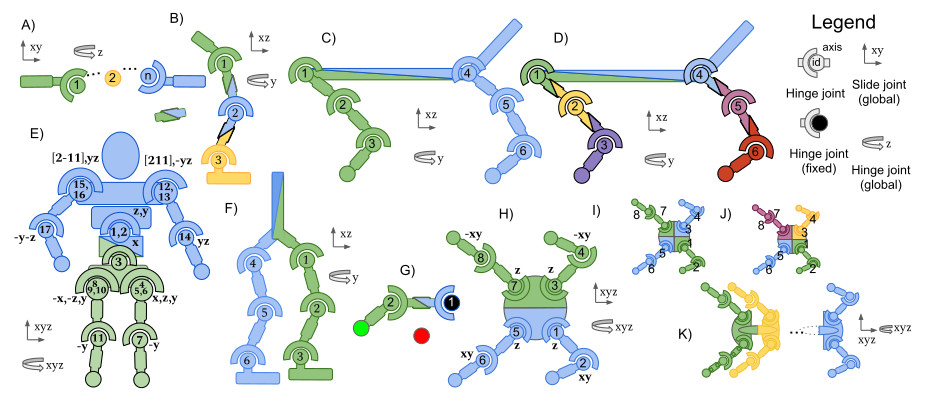
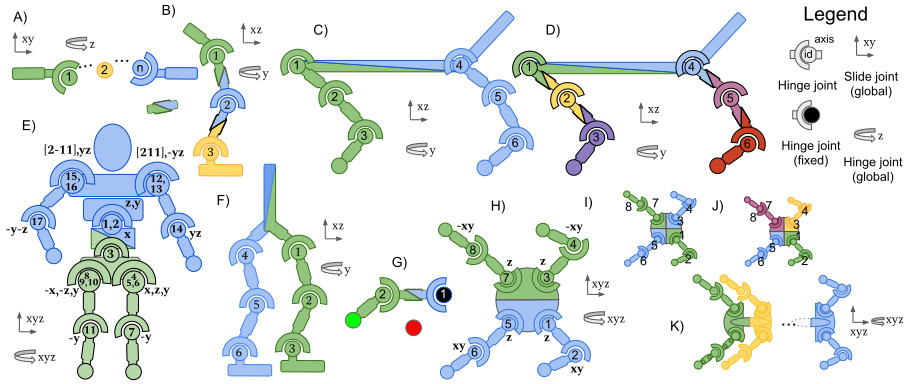
add licence info

diff --git a/gymnasium_robotics/envs/multiagent_mujoco/obsk.py b/gymnasium_robotics/envs/multiagent_mujoco/obsk.py
@@ -1,3 +1,27 @@
+"""file Containing utily functions for MaMuJoCo.
+
+This file is originally from the `schroederdewitt/multiagent_mujoco` repository hosted on GitHub
+(https://github.com/schroederdewitt/multiagent_mujoco/blob/master/multiagent_mujoco/obsk.py)
+Original Author: Schroeder de Witt
+
+Then Modified by @Kallinteris-Andreas for this project
+changes:
+ - General code cleanup, factorization, type hinting, adding documentation and comments
+ - `build_obs`: fixed global observations, fixed body observations (cvel, cinert, cfrc_ext), how uses mujoco.data, instead of gym.env
+ - `HalfCheetah`: fix action ordering
+ - `Ant`: Fix global observation, fix "2x4d" factorization how having diogonal observations
+ - `Humanoid`s: Added Body support, fixed abdomen observations, added/fixed missing global torso observations, fixed action ordering
+ - `Reacher`: Fixxed body mapping
+ - `Pusher`: Added support for `Pusher`
+ - `Swimmer`: Added Front tip to global observations
+ - `Walker2D`: Added missing Global Observations
+ - `CoupledHalfCheetah`: improved node naming, fixxed tendon facobian observations, fixed action mapping of the second cheetah, added missing global observations
+ - `ManySegmentAnt`: Fixed Global Observations
+ - added new functions: `_observation_structure`
+
+This project is covered by the Apache 2.0 License.
+"""
+
 from __future__ import annotations
 
 import itertools
@@ -894,24 +918,24 @@ def get_parts_and_edges(  # noqa: C901
         if partitioning is None:
             parts = [
                 (
-                    bfoot0,
-                    bshin0,
                     bthigh0,
-                    ffoot0,
-                    fshin0,
+                    bshin0,
+                    bfoot0,
                     fthigh0,
-                    bfoot1,
-                    bshin1,
+                    fshin0,
+                    ffoot0,
                     bthigh1,
-                    ffoot1,
-                    fshin1,
+                    bshin1,
+                    bfoot1,
                     fthigh1,
+                    fshin1,
+                    ffoot1,
                 ),
             ]
         elif partitioning == "1p1":  # isolate the cheetahs
             parts = [
-                (bfoot0, bshin0, bthigh0, ffoot0, fshin0, fthigh0),
-                (bfoot1, bshin1, bthigh1, ffoot1, fshin1, fthigh1),
+                (bthigh0, bshin0, bfoot0, fthigh0, fshin0, ffoot0),
+                (bthigh1, bshin1, bfoot1, fthigh1, fshin1, ffoot1),
             ]
         else:
             raise Exception(f"UNKNOWN partitioning config: {partitioning}")

diff --git a/gymnasium_robotics/envs/multiagent_mujoco/mujoco_multi.py b/gymnasium_robotics/envs/multiagent_mujoco/mujoco_multi.py
@@ -1,3 +1,20 @@
+"""Main file for MaMuJoCo includes the MultiAgentMujocoEnv class.
+
+This file is originally from the `schroederdewitt/multiagent_mujoco` repository hosted on GitHub
+(https://github.com/schroederdewitt/multiagent_mujoco/blob/master/multiagent_mujoco/mujoco_multi.py)
+Original Author: Schroeder de Witt
+
+Then Modified by @Kallinteris-Andreas for this project
+changes:
+ - General code cleanup, factorization, type hinting, adding documentation and comments
+ - Now uses PettingZoo APIs instead of a propriatery API
+ - Now supports custom factorizations
+ - Added new functions MultiAgentMujocoEnv.map_global_action_to_local_actions, MultiAgentMujocoEnv.map_local_actions_to_global_action, MultiAgentMujocoEnv.map_local_observation_to_global_state, MultiAgentMujocoEnv.map_local_observation_to_global_state
+
+This project is covered by the Apache 2.0 License.
+"""
+
+
 from __future__ import annotations
 
 import gymnasium
@@ -6,7 +23,7 @@ import pettingzoo
 from gymnasium.wrappers.time_limit import TimeLimit
 
 from gymnasium_robotics.envs.multiagent_mujoco.coupled_half_cheetah import (
-    CoupledHalfCheetah,
+    CoupledHalfCheetahEnv,
 )
 from gymnasium_robotics.envs.multiagent_mujoco.many_segment_ant import ManySegmentAntEnv
 from gymnasium_robotics.envs.multiagent_mujoco.many_segment_swimmer import (
@@ -111,7 +128,7 @@ class MultiAgentMujocoEnv(pettingzoo.utils.env.ParallelEnv):
             )
         elif scenario in ["CoupledHalfCheetah-v4"]:
             self.single_agent_env = TimeLimit(
-                CoupledHalfCheetah(render_mode), max_episode_steps=1000
+                CoupledHalfCheetahEnv(render_mode), max_episode_steps=1000
             )
         else:
             raise NotImplementedError("Custom env not implemented!")

diff --git a/gymnasium_robotics/envs/multiagent_mujoco/coupled_half_cheetah.py b/gymnasium_robotics/envs/multiagent_mujoco/coupled_half_cheetah.py
@@ -1,3 +1,15 @@
+"""File for CoupledHalfCheetahEnv.
+
+This file is originally from the `schroederdewitt/multiagent_mujoco` repository hosted on GitHub
+(https://github.com/schroederdewitt/multiagent_mujoco/blob/master/multiagent_mujoco/coupled_half_cheetah.py)
+Original Author: Schroeder de Witt
+
+ - General code cleanup, factorization, type hinting, adding documentation and comments
+- updated API to Gymnasium.MuJoCo v4
+- increase returned info
+- fixed `_get_obs()` (now also returns tendon related observations)
+- renamed CoupledHalfCheetah -> CoupledHalfCheetahEnv
+"""
 import os
 import typing
 
@@ -11,7 +23,7 @@ DEFAULT_CAMERA_CONFIG = {
 }
 
 
-class CoupledHalfCheetah(mujoco_env.MujocoEnv, EzPickle):
+class CoupledHalfCheetahEnv(mujoco_env.MujocoEnv, EzPickle):
     """Class for CoupledHalfCheetah mujoco environment.
 
     ## Description
@@ -38,7 +50,10 @@ class CoupledHalfCheetah(mujoco_env.MujocoEnv, EzPickle):
 
 
     ## Observation Space
-    The action space is a `Box(-1, 1, (40,), float64)`.
+    Observations consist of positional values of different body parts of the cheetahs, followed by the velocities of those individual parts (their derivatives) with all the positions ordered before all the velocities, followed by the jacobian of the tendon, the length of the tendon, and it's velocity (it's derivative).
+
+    The observation space is a `Box(-1, 1, (40,), float64)`.
+
     | Num | Observation                          | Min  | Max | Name (in corresponding XML file) | Joint  | Unit                     |
     | --- | ------------------------------------ | ---- | --- | -------------------------------- | ------ | ------------------------ |
     | 0   | z-coordinate of the front tip of the first cheetah         | -Inf | Inf | rootz0                           | slide  | position (m)             |

diff --git a/gymnasium_robotics/envs/multiagent_mujoco/many_segment_swimmer.py b/gymnasium_robotics/envs/multiagent_mujoco/many_segment_swimmer.py
@@ -1,3 +1,16 @@
+"""File for ManySegmentSwimmerEnv.
+
+This file is originally from the `schroederdewitt/multiagent_mujoco` repository hosted on GitHub
+(https://github.com/schroederdewitt/multiagent_mujoco/blob/master/multiagent_mujoco/manyagent_swimmer.py)
+Original Author: Schroeder de Witt
+
+ - General code cleanup, factorization, type hinting, adding documentation and comments
+ - updated API to Gymnasium.MuJoCo v4
+ - increase returned info
+ - renamed ManyAgentSwimmerEnv -> ManySegmentSwimmerEnv (and changed the __init__ arguments accordingly)
+"""
+
+
 import os
 import typing
 

diff --git a/gymnasium_robotics/envs/multiagent_mujoco/many_segment_ant.py b/gymnasium_robotics/envs/multiagent_mujoco/many_segment_ant.py
@@ -1,3 +1,15 @@
+"""File for ManySegmentAntEnv.
+
+This file is originally from the `schroederdewitt/multiagent_mujoco` repository hosted on GitHub
+(https://github.com/schroederdewitt/multiagent_mujoco/blob/master/multiagent_mujoco/manyagent_ant.py)
+Original Author: Schroeder de Witt
+
+ - General code cleanup, factorization, type hinting, adding documentation and comments
+ - updated API to Gymnasium.MuJoCo v4
+ - increase returned info
+ - renamed ManyAgentAntEnv -> ManySegmentAntEnv (and changed the __init__ arguments accordingly)
+"""
+
 import os
 import typing
 

diff --git a/gymnasium_robotics/envs/multiagent_mujoco/__init__.py b/gymnasium_robotics/envs/multiagent_mujoco/__init__.py
@@ -1,7 +1,7 @@
 """See the [Doc Page](https://robotics.farama.org/envs/fetch/MaMuJoCo)."""
 
 from gymnasium_robotics.envs.multiagent_mujoco.coupled_half_cheetah import (  # noqa: F401
-    CoupledHalfCheetah,
+    CoupledHalfCheetahEnv,
 )
 from gymnasium_robotics.envs.multiagent_mujoco.many_segment_ant import (  # noqa: F401
     ManySegmentAntEnv,

diff --git a/docs/envs/MaMuJoCo/ma_ant.md b/docs/envs/MaMuJoCo/ma_ant.md
@@ -41,6 +41,9 @@ If partitioning, is None then the environment contains a single agent with the s
 | 6   | Torque applied on the rotor between the torso and back left hip   | -1          | 1           | hip_3 (back_leg)                 | hinge | torque (N m) |
 | 7   | Torque applied on the rotor between the back left two links       | -1          | 1           | angle_3 (back_leg)               | hinge | torque (N m) |
 ### if partitioning == "2x4":  # neighbouring legs together
+```{figure} Ant_2x4.png
+    :name: Ant_2x4
+```
 
 | Instantiate		| `env = mamujoco_v0.parallel_env("Ant", "2x4")`		|
 |-----------------------|------------------------------------------------------|